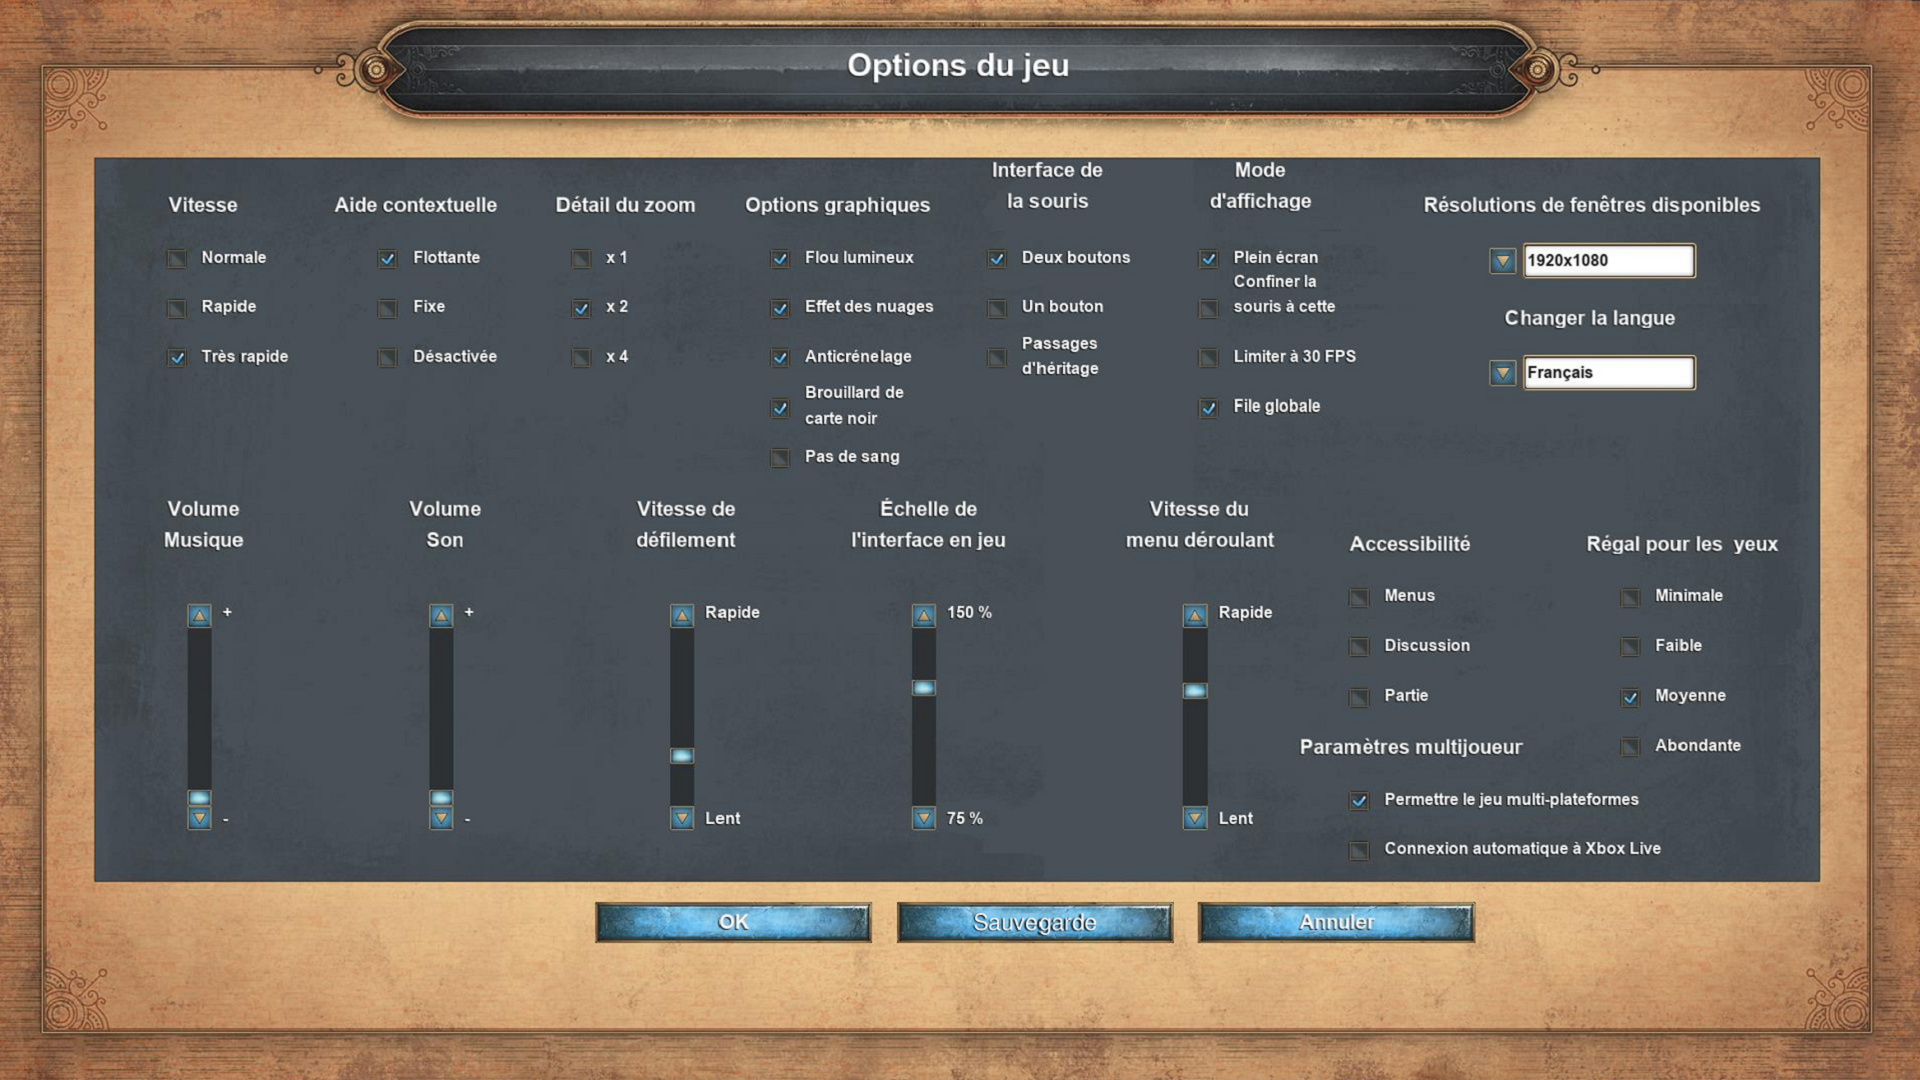
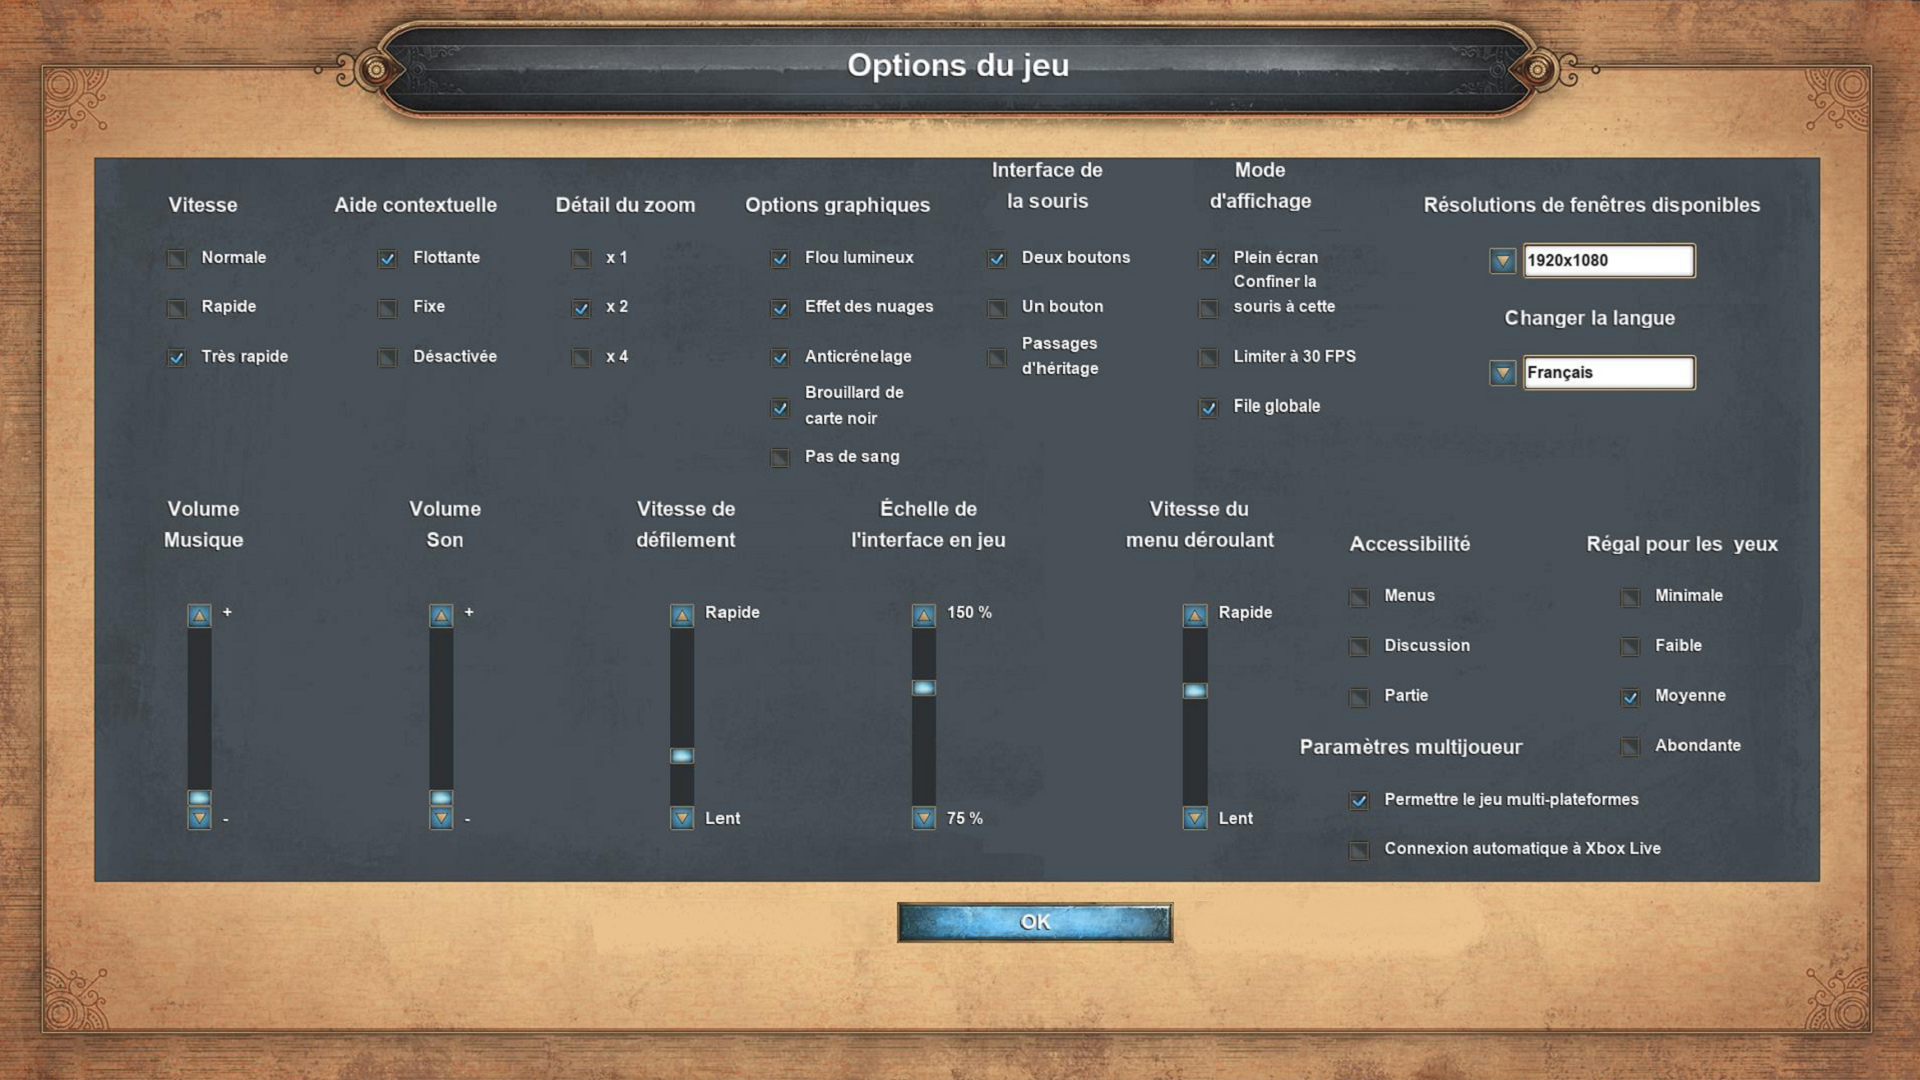
ajout commande dans le chat pour changer la vitesse

Changed region(s): [[0.625, 0.825, 0.7812, 0.8861], [0.3125, 0.825, 0.4688, 0.8861], [0.5, 0.825, 0.5625, 0.8861]]

diff --git a/game/ecranOptions.py b/game/ecranOptions.py
@@ -32,19 +32,17 @@ class Options:
                 image = pygame.image.load('assets/ecran_options3.png').convert_alpha()
                 self.screen.blit(image, (0, 0))
 
-
  
             draw_text(self.screen, 'Options', 30, WHITE, (20, 20))
             mx, my = pygame.mouse.get_pos()  # récupération des clics de souris
 
-            button_ok = pygame.Rect(600, 900, 280, 40)  # les boutons (ici, invisibles) -> bouton ok
-            button_normal = pygame.Rect(170, 250, 15, 15)
+            button_normal = pygame.Rect(170, 250, 15, 15) # les boutons (ici, invisibles) -> bouton ok
             button_fast = pygame.Rect(170, 300, 15, 15)
             button_veryfast = pygame.Rect(170, 350, 15, 15)
-            button_charg = pygame.Rect(900,900,280,40)
+            button_ok = pygame.Rect(897,903,278,40)
 
             if button_ok.collidepoint((mx, my)): #zone de collision des boutons et action quand cliqué
-                pygame.draw.rect(self.screen, (255, 255, 255), (594, 902, 277, 40), 3)
+                pygame.draw.rect(self.screen, (255, 255, 255), (896, 902, 277, 40), 3)
                 if click:
                     self.playing=False
 
@@ -63,12 +61,6 @@ class Options:
                 if click:
                     definitions.case_coche = 2
                     definitions.CURRENT_SPEED = "veryfast"
-
-            if button_charg.collidepoint((mx, my)):
-                pygame.draw.rect(self.screen, (255, 255, 255), (894, 902, 277, 40), 3)
-                if click:
-                    definitions.SAVE_GAME_FOLDER = "data/"
-
 
 
 

diff --git a/game/chat.py b/game/chat.py
@@ -2,7 +2,7 @@ import pygame as pg
 import game.definitions as definitions
 
 from game.BIGDADDY import Bigdaddy
-
+from .definitions import *
 
 pg.init()
 pg.font.init()
@@ -64,6 +64,15 @@ class Chat:
                     
                     elif self.text == "STEROIDS":
                         print("training, building, farming are instantaneous for every players")
+
+                    elif self.text == "speed = normal":
+                        definitions.CURRENT_SPEED = "normal"
+                    elif self.text == "speed = fast":
+                        definitions.CURRENT_SPEED = "fast"
+                    elif self.text == "speed = veryfast":
+                        definitions.CURRENT_SPEED = "veryfast"
+                    elif self.text == "speed = god":
+                        definitions.CURRENT_SPEED = "potato_pc"
 
 
                     elif self.text == "minimap":

diff --git a/game/definitions.py b/game/definitions.py
@@ -7,7 +7,7 @@ UNITS_SPAWN_TIME = 10
 IA_DECISION_TIME = 1000  #(L'IA prendra une decision chaque X ms au lieu de chaque frame, comme ça 0 perte de fps)
 
 #Speed
-DISPLACEMENT_SPEED = {"slow" : 0.5, "normal" : 1, "fast": 3, "veryfast": 5, "potato_pc": 8}
+DISPLACEMENT_SPEED = {"slow" : 0.5, "normal" : 1, "fast": 3, "veryfast": 5, "potato_pc": 100}
 
 
 #Screen
@@ -58,4 +58,4 @@ def init():
 
     #SPEED
     global CURRENT_SPEED
-    CURRENT_SPEED = "veryfast"
+    CURRENT_SPEED = "normal"

diff --git a/definitions.py b/definitions.py
@@ -1,4 +1,5 @@
 import pygame
+
 CURRENT_SPEED = "fast"
 #Time-based settings
 UNITS_SPAWN_TIME = 10
@@ -7,7 +8,7 @@ UNITS_SPAWN_TIME = 10
 SAVED_GAME_FOLDER = "data/"
 
 #Speed
-DISPLACEMENT_SPEED = {"slow" : 0.5, "normal" : 1, "fast": 3, "potato_pc": 8}
+DISPLACEMENT_SPEED = {"slow" : 0.5, "normal" : 1, "fast": 3, "potato_pc": 100}
 CURRENT_SPEED = "fast"
 
 #Screen
